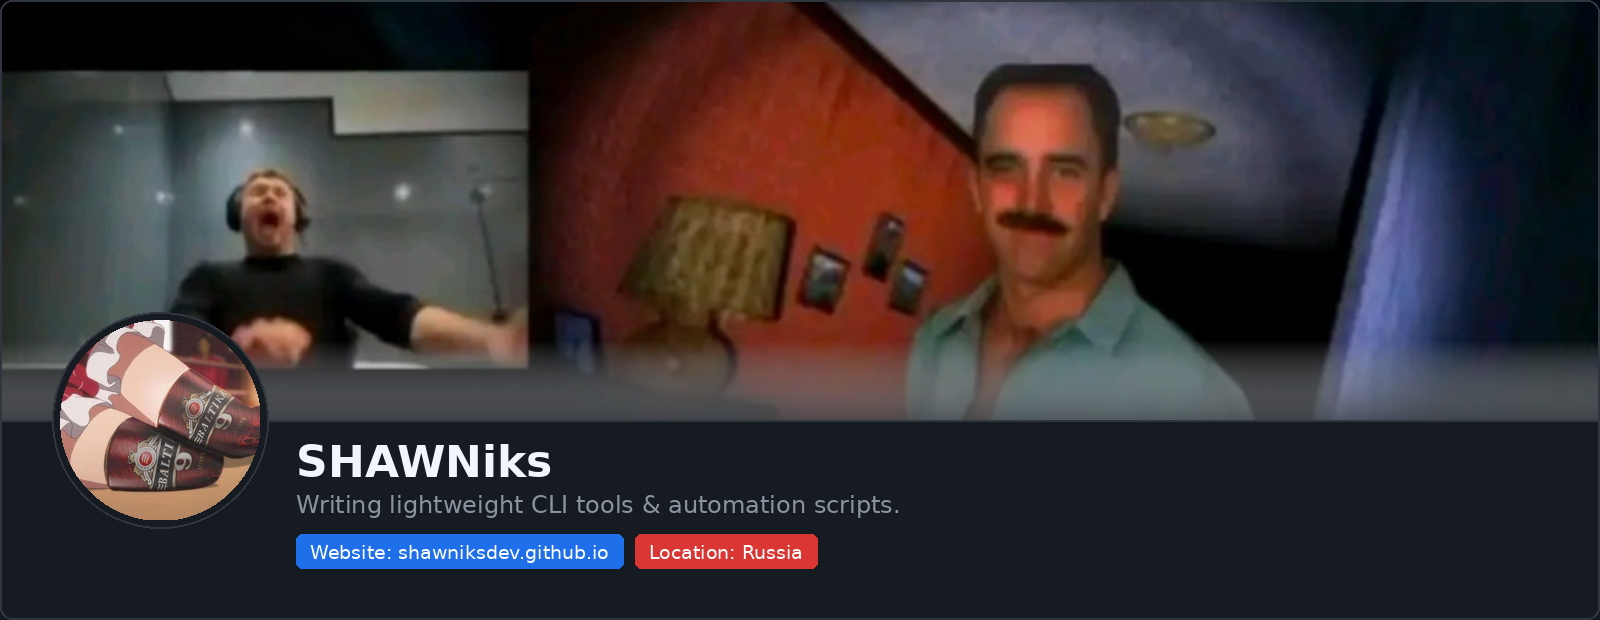
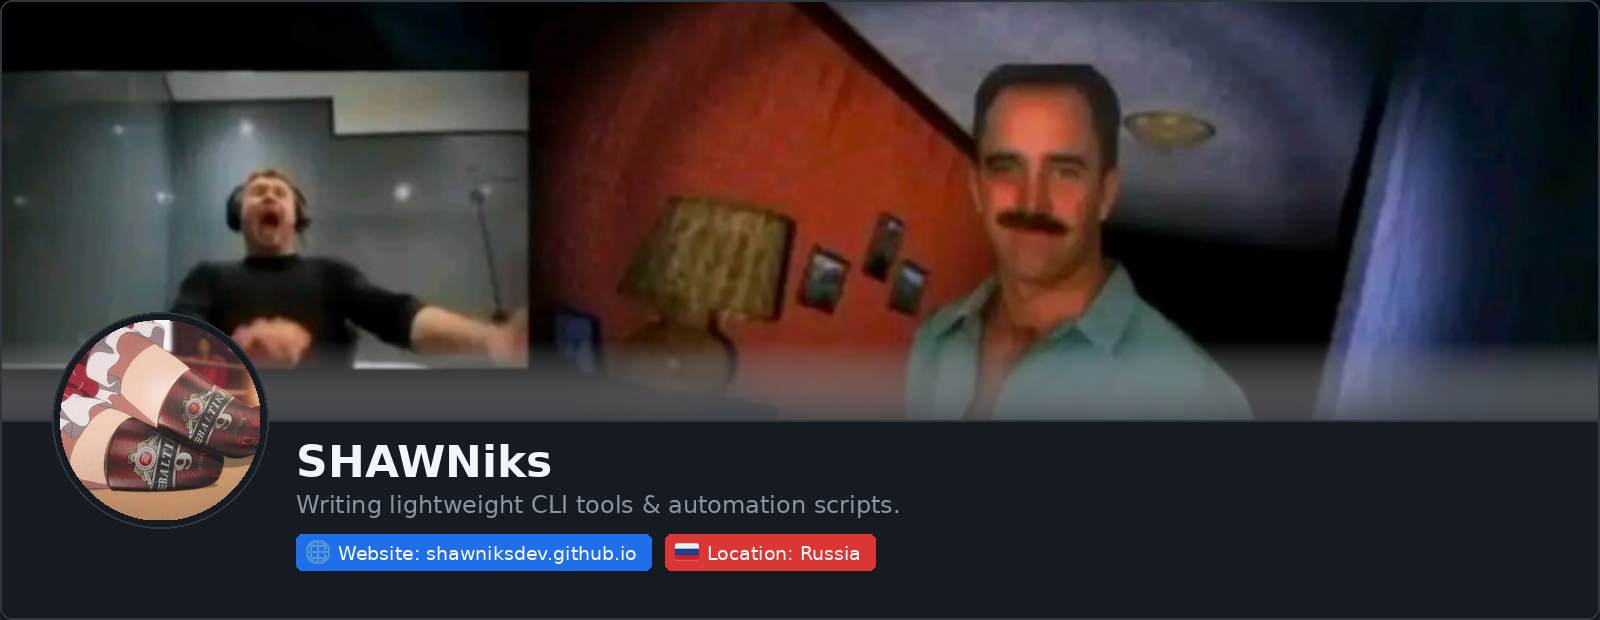
Add globe and Russian flag emojis to header, fix stats commit spacing

Changed region(s): [[0.1875, 0.8581, 0.5625, 0.9194]]

diff --git a/README.md b/README.md
@@ -30,7 +30,7 @@
 ### СТАТИСТИКА
 
 <p align="center">
-  <img src="https://github-readme-stats.vercel.app/api?username=SHAWNiksDev&locale=ru&show_icons=true&theme=tokyonight&border_radius=8&bg_color=161B22&border_color=30363D&hide_rank=true&custom_title=%D0%A1%D1%82%D0%B0%D1%82%D0%B8%D1%81%D1%82%D0%B8%D0%BA%D0%B0" alt="Статистика" />
+  <img src="https://github-readme-stats.vercel.app/api?username=SHAWNiksDev&locale=ru&show_icons=true&theme=tokyonight&border_radius=8&bg_color=161B22&border_color=30363D&hide_rank=truehide_rank=true&custom_title=%D0%A1%D1%82%D0%B0%D1%82%D0%B8%D1%81%D1%82%D0%B8%D0%BA%D0%B0custom_title=%D0%A1%D1%82%D0%B0%D1%82%D0%B8%D1%81%D1%82%D0%B8%D0%BA%D0%B0hide_rank=true&custom_title=%D0%A1%D1%82%D0%B0%D1%82%D0%B8%D1%81%D1%82%D0%B8%D0%BA%D0%B0include_all_commits=true" alt="Статистика" />
   &nbsp;&nbsp;
   <img src="https://github-readme-stats.vercel.app/api/top-langs/?username=SHAWNiksDev&locale=ru&layout=compact&theme=tokyonight&border_radius=8&bg_color=161B22&border_color=30363D&custom_title=%D0%AF%D0%B7%D1%8B%D0%BA%D0%B8" alt="Языки" />
 </p>

diff --git a/README.en.md b/README.en.md
@@ -30,7 +30,7 @@
 ### STATS
 
 <p align="center">
-  <img src="https://github-readme-stats.vercel.app/api?username=SHAWNiksDev&show_icons=true&theme=tokyonight&border_radius=8&bg_color=161B22&border_color=30363D&hide_rank=true" alt="Stats" />
+  <img src="https://github-readme-stats.vercel.app/api?username=SHAWNiksDev&show_icons=true&theme=tokyonight&border_radius=8&bg_color=161B22&border_color=30363D&hide_rank=truehide_rank=trueinclude_all_commits=true" alt="Stats" />
   &nbsp;&nbsp;
   <img src="https://github-readme-stats.vercel.app/api/top-langs/?username=SHAWNiksDev&layout=compact&theme=tokyonight&border_radius=8&bg_color=161B22&border_color=30363D" alt="Languages" />
 </p>
